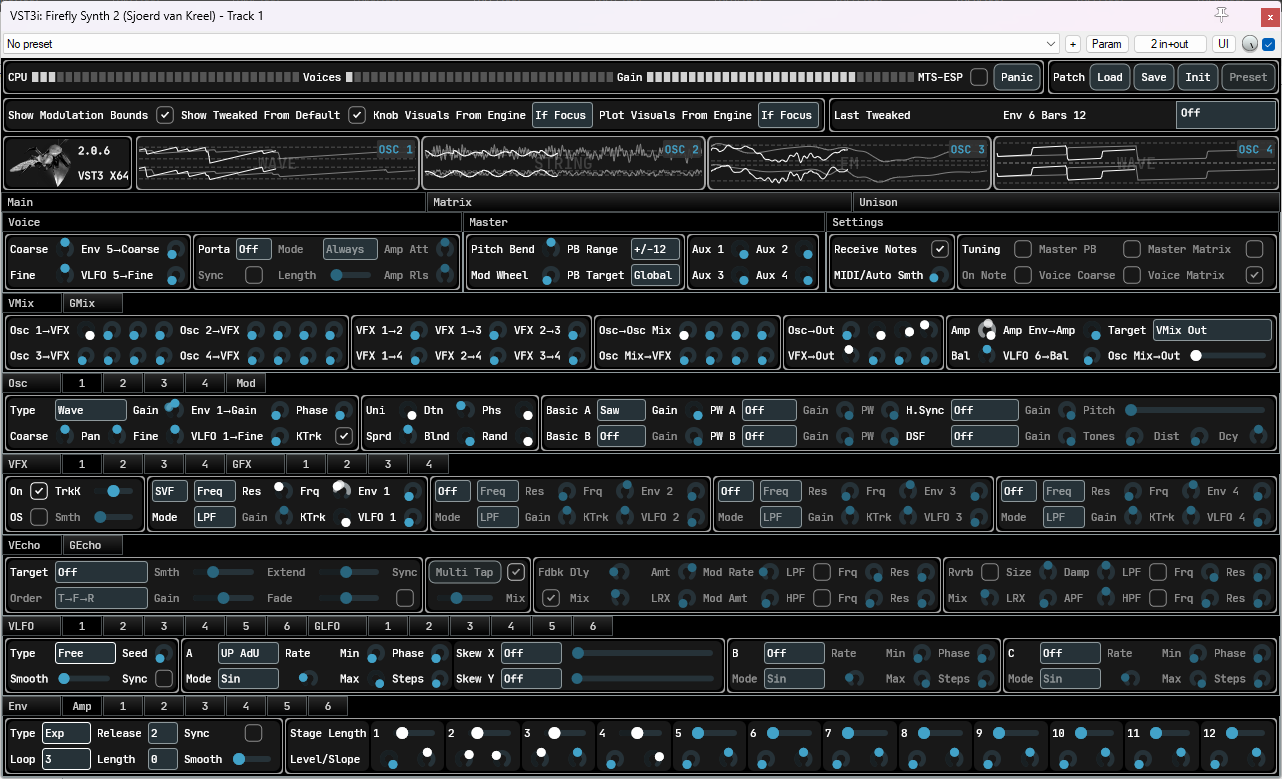
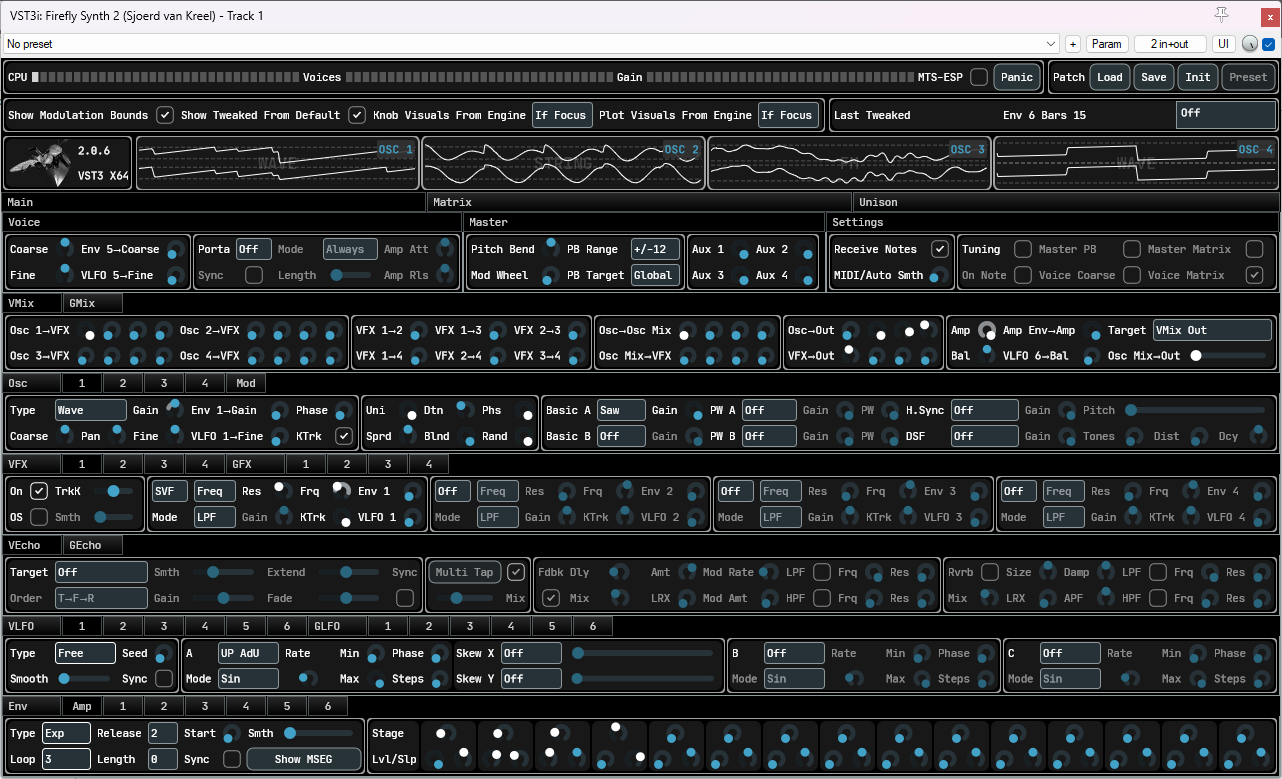
screenshots

diff --git a/README.md b/README.md
@@ -231,3 +231,5 @@ Git clone recursive, build scripts are in /scripts, build_windows|linux|mac.bat|
 <img alt="Screenshot Main" src="static/screenshot_main.png"/>
 <img alt="Screenshot Matrix" src="static/screenshot_matrix.png"/>
 <img alt="Screenshot Unison" src="static/screenshot_unison.png"/>
+<img alt="Screenshot Unison" src="static/screenshot_multitap.png"/>
+<img alt="Screenshot Unison" src="static/screenshot_mseg.png"/>
